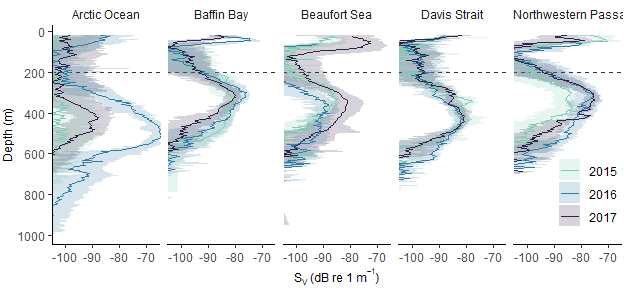
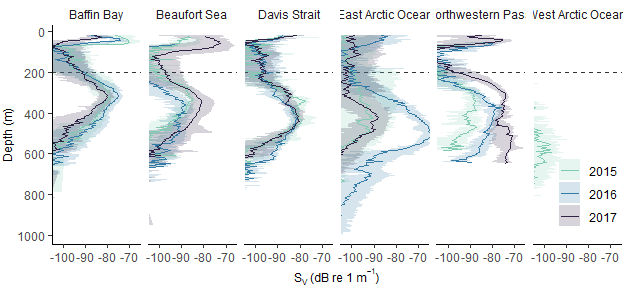
Implemented new IHO area definitions

diff --git a/PanArctic_DSL_acoustics.md b/PanArctic_DSL_acoustics.md
@@ -1,7 +1,7 @@
 PanArctic DSL - Acoustic gridding
 ================
 [Pierre Priou](mailto:pierre.priou@mi.mun.ca)
-2022/04/27 at 15:26
+2022/04/29 at 15:36
 
 # Package loading
 
@@ -11,6 +11,7 @@ library(tidyverse)    # Tidy code
 library(cowplot)      # Plots on a grid
 library(raster)       # Data gridding
 library(sf)           # Spatial data
+library(fs)           # List files
 library(rgdal)        # Read shapefiles
 library(cmocean)      # Oceanographic color palettes
 library(RColorBrewer) # Diverging color palette
@@ -43,18 +44,21 @@ cell_res <- 50 # Cell resolution in km
 res(arctic_laea) <- c(cell_res, cell_res) # Define the 100 km cell resolution
 
 # IHO areas
-# sf::sf_use_s2(T) # Turn off s2 processing
-IHO_sf_latlon <- read_sf("data/arctic_regions/World_Seas_IHO_v3.shp") %>%
-  filter(ID %in% c("5", "13", "14", "14A", "15", "17")) %>% # Filter for relevant regions
+IHO_sf_latlon <- dir_ls("data/arctic_regions/", glob = "*.shp") %>% 
+  tibble(fname = .) %>%
+  mutate(data = map(fname, read_sf)) %>%
+  unnest(data) %>%
+  st_as_sf() %>%
   st_transform(crs = crs(arctic_latlon)) %>%
-  st_make_valid() %>% # Correct invalid polygons
-  filter(st_is_valid(.) == TRUE)
-IHO_sf_laea <- read_sf("data/arctic_regions/World_Seas_IHO_v3.shp") %>%
-  filter(ID %in% c("5", "13", "14", "14A", "15", "17")) %>% # Filter for relevant regions
+  st_make_valid()
+IHO_sf_laea <- dir_ls("data/arctic_regions/", glob = "*.shp") %>% 
+  tibble(fname = .) %>%
+  mutate(data = map(fname, read_sf)) %>%
+  unnest(data) %>%
+  st_as_sf() %>%
   st_transform(crs = crs(arctic_latlon)) %>%
   st_transform(crs = crs(arctic_laea)) %>%
-  st_make_valid() %>% # Correct invalid polygons
-  filter(st_is_valid(.) == TRUE) 
+  st_make_valid()
 ```
 
 # Integrated s<sub>A</sub> and centre of mass
@@ -124,10 +128,10 @@ SA_grid_latlon <- SA_grid_latlon %>% # Calculate normalized backscatter anomalie
   st_as_sf(coords = c("lon", "lat"), crs = st_crs(arctic_latlon), remove = F) %>%
   st_join(., IHO_sf_latlon, join = st_within) %>%
   st_drop_geometry() %>%
-  mutate(NAME = if_else(is.na(NAME) == T & lon > -100 & lat < 70, "Davis Strait",
-                if_else(is.na(NAME) == T & lon > -100 & lat > 70, "Baffin Bay",
-                if_else(is.na(NAME) == T & lon < -100, "The Northwestern Passages", NAME)))) %>%
-  rename(IHO_area = NAME, area = area.x) %>%
+  mutate(name = if_else(is.na(name) == T & lon > -100 & lat < 70, "Davis Strait",
+                if_else(is.na(name) == T & lon > -100 & lat > 70, "Baffin Bay",
+                if_else(is.na(name) == T & lon < -100, "The Northwestern Passages", name)))) %>%
+  rename(IHO_area = name, area = area.x) %>%
   dplyr::select(year, lat, lon, IHO_area, area, NASC_int, CM, mean_NASC_area_year, sd_NASC_area_year, 
                 NASC_anomaly, NASC_anomaly_d)
 ```
@@ -229,15 +233,24 @@ SA_grid_laea <- SA_grid_laea %>% # Calculate normalized backscatter anomalies
   st_as_sf(coords = c("xc", "yc"), crs = st_crs(arctic_laea), remove = F) %>%
   st_join(., IHO_sf_laea, join = st_within) %>%
   st_drop_geometry() %>%
-  mutate(NAME = if_else(is.na(NAME) == T & yc < 0, "Baffin Bay",
-                if_else(is.na(NAME) == T & yc > 0 & lat > 70, "The Northwestern Passages", NAME))) %>%
-  rename(IHO_area = NAME, area = area.x) %>%
-  dplyr::select(year, xc, yc, lon, lat, IHO_area, area, NASC_int, CM, mean_NASC_area_year, sd_NASC_area_year,
+  mutate(name = if_else(is.na(name) == T & yc < 0, "Baffin Bay",
+                if_else(is.na(name) == T & yc > 0 & lat > 70, "The Northwestern Passages", 
+                if_else(name == "The Northwestern Passages" & yc < 0, "Baffin Bay", 
+                if_else(name == "Arctic Ocean" & name_3 == "West Arctic Ocean", "West Arctic Ocean",
+                if_else(name == "Arctic Ocean" & name_3 == "East Arctic Ocean", "East Arctic Ocean", name))))),
+         IHO_area_large = factor(case_when(name == "Beaufort Sea" ~ "BF_WAO",
+                                           name == "West Arctic Ocean" ~ "BF_WAO",
+                                           name == "Baffin Bay" ~ "BB_DS",
+                                           name == "Davis Strait" ~ "BB_DS",
+                                           name == "The Northwestern Passages" ~ "CAA",
+                                           name == "East Arctic Ocean" ~ "EAO"),
+                                 levels = c("BF_WAO", "CAA", "BB_DS", "EAO"))) %>%
+           rename(IHO_area = name, area = area.x) %>%
+  dplyr::select(year, xc, yc, lon, lat, IHO_area, IHO_area_large, area, NASC_int, CM, mean_NASC_area_year, sd_NASC_area_year,
                 NASC_anomaly, NASC_anomaly_d, cell_res)
 ```
 
-Plot mesopelagic normalized s<sub>A</sub> anomalies and centre of mass
-with the EASE-Grid 2.0 North.
+Map to check whether the IHO regions are well implemented.
 
 ``` r
 coast_10m_laea <- readOGR("data/bathy/ne_10m_land.shp", verbose = F) %>% # Coastline in laea
@@ -246,7 +259,24 @@ coast_10m_laea <- readOGR("data/bathy/ne_10m_land.shp", verbose = F) %>% # Coast
   spTransform(CRSobj = crs(arctic_laea)) %>% # Project shapefile in laea
   fortify() %>% # Convert to a dataframe for ggplot
   rename(xc = long, yc = lat)
+```
 
+    ## Regions defined for each Polygons
+
+``` r
+SA_grid_laea %>%
+  ggplot() +
+  geom_polygon(data = coast_10m_laea, aes(x = xc, y = yc, group = group), fill = "grey80") +
+  geom_point(aes(x = xc, y = yc, col = IHO_area_large)) +
+  coord_fixed(xlim = c(-2600, 1100), ylim = c(-1800, 1900), expand = F)
+```
+
+![](PanArctic_DSL_acoustics_files/figure-gfm/plot-areas-1.png)<!-- -->
+
+Plot mesopelagic normalized s<sub>A</sub> anomalies and centre of mass
+with the EASE-Grid 2.0 North.
+
+``` r
 col_pal <- rev(brewer.pal(n = 5, name = "BrBG"))
 
 plot_grid(SA_grid_laea %>% # Map integrated normalized backscatter anomaly
@@ -358,7 +388,7 @@ for (i in seq(2015, 2017, 1)) { # Loop through every year
 rm(Sv_tmp, Sv_tmp_0.05, Sv_tmp_0.25, Sv_tmp_0.50, Sv_tmp_0.75, Sv_tmp_0.95, Sv_grid_tmp) # Remove temporary data
 
 coord_equivalences <- SA_grid_laea %>% # Calculate coord equivalences between 4326 and 6931
-  group_by(xc, yc, area, IHO_area) %>%
+  group_by(xc, yc, area, IHO_area, IHO_area_large) %>%
   summarise()
 
 Sv_grid_laea <- Sv_grid_laea %>% # Tidy data
@@ -374,7 +404,7 @@ Sv_grid_laea <- Sv_grid_laea %>% # Tidy data
            cell_res = cell_res) %>%
   ungroup() %>%
   left_join(., coord_equivalences, by = c("xc", "yc", "area")) %>%
-  dplyr::select(year, xc, yc, lon, lat, IHO_area, area, depth, cell_res,
+  dplyr::select(year, xc, yc, lon, lat, IHO_area, IHO_area_large, area, depth, cell_res,
                 sv_lin_q0.05, sv_lin_q0.25, sv_lin_q0.50, sv_lin_q0.75, sv_lin_q0.95,
                 Sv_q0.05, Sv_q0.25, Sv_q0.50, Sv_q0.75, Sv_q0.95)
 ```
